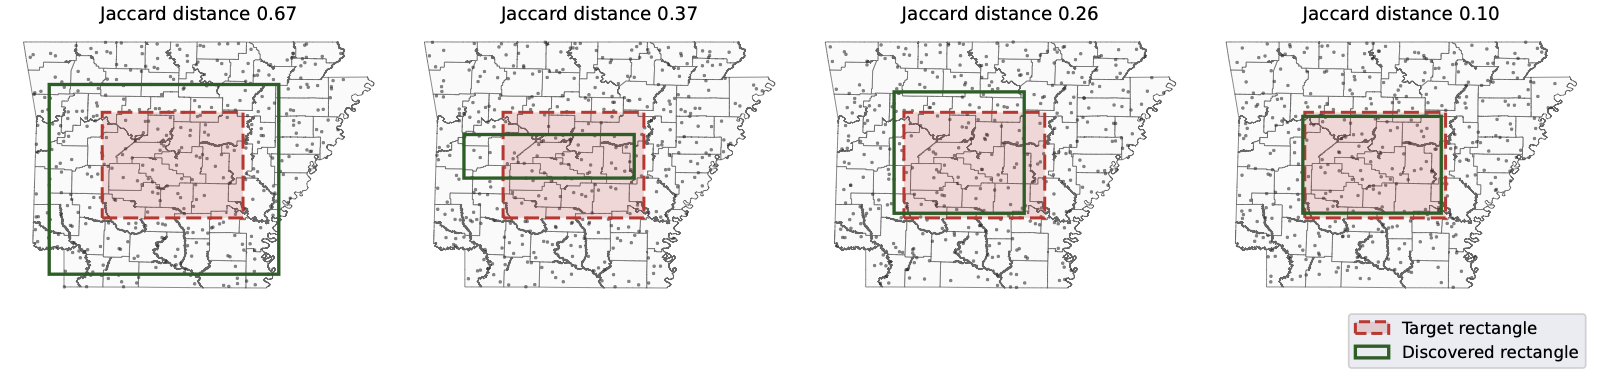
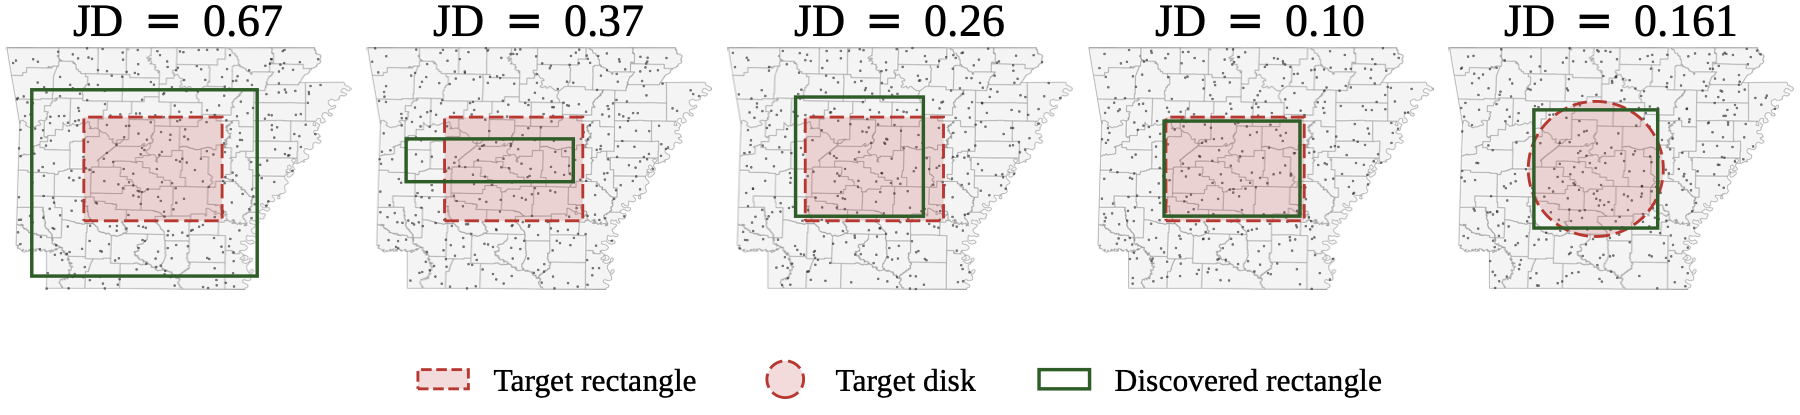
Update README hero (JDArkansas_6 with 5-panel disk variant); add missing deps to requirements

diff --git a/README.md b/README.md
@@ -3,7 +3,7 @@
 <p align="center">
   <img src="docs/fig2_jdarkansas.png" alt="Discovered rectangle (green) converging on the planted target (red) as the pq-difference grows; Jaccard distance drops from 0.67 to 0.10." width="900">
 </p>
-<p align="center"><sub>The discovered scan window (green) converges on the planted target (red) as the signal strength grows — Jaccard distance falls from 0.67 to 0.10 across four Arkansas-county trials.</sub></p>
+<p align="center"><sub>The discovered scan window (green) converges on the planted target (red rectangle or disk) as the signal strength grows — Jaccard distance falls from 0.67 to 0.10 across five Arkansas-county trials.</sub></p>
 
 Code and figure scripts for the paper:
 